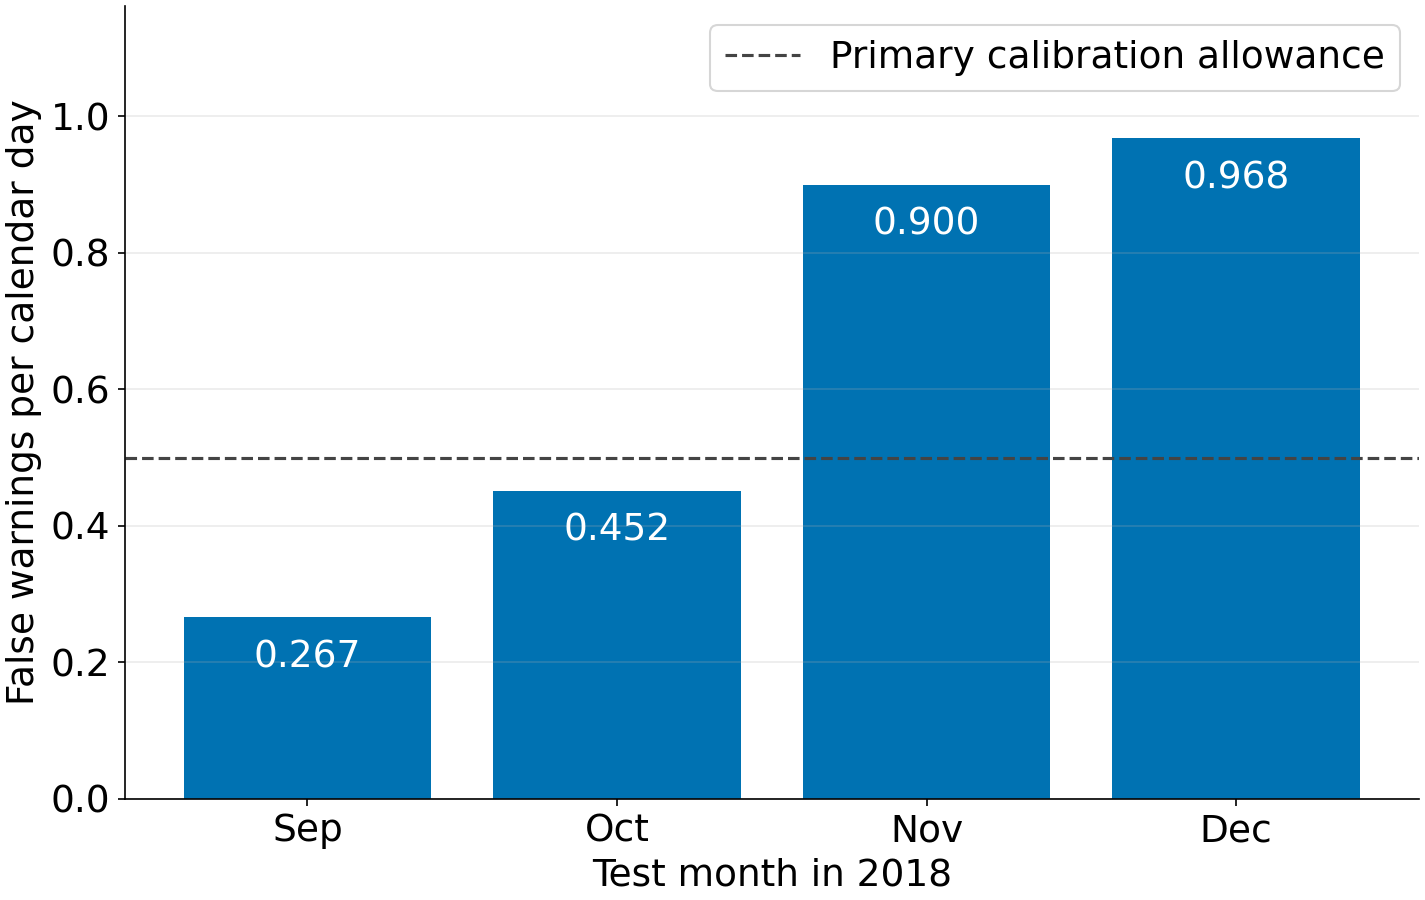
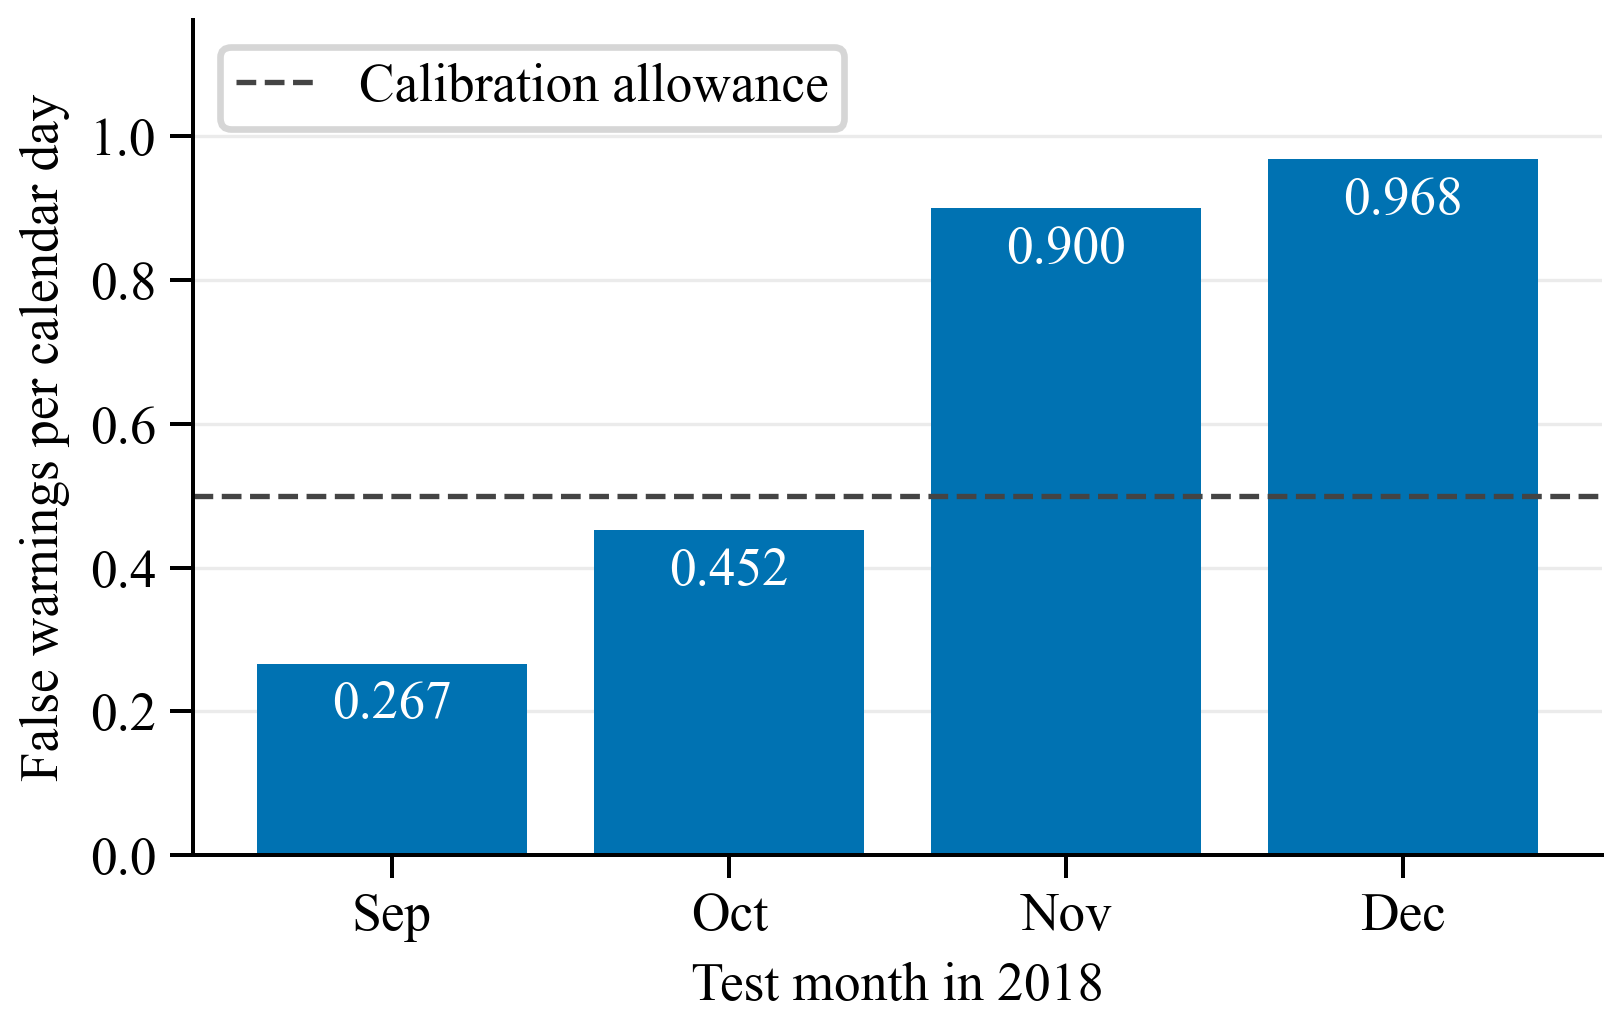
Match PIERE figure typography at final publication size

Changed region(s): [[0.0, 0.0311, 0.9881, 0.9956], [0.7102, 0.0311, 0.9881, 0.0933], [0.5867, 0.0311, 0.6793, 0.0933]]

diff --git a/reproduce.py b/reproduce.py
@@ -182,25 +182,68 @@ def plot_results(metrics: pd.DataFrame, monthly: pd.DataFrame, output: Path):
     import matplotlib
     matplotlib.use('Agg')
     import matplotlib.pyplot as plt
-    plt.rcParams.update({'font.size': 18, 'axes.spines.top': False, 'axes.spines.right': False, 'figure.dpi': 150})
+    from matplotlib import font_manager
+    import warnings
+
+    # Match the article's 4,866-twip image width so 8 pt remains 8 pt in print.
+    font_path = Path('C:/Windows/Fonts/times.ttf')
+    if font_path.is_file():
+        font_manager.fontManager.addfont(str(font_path))
+    try:
+        resolved_font = font_manager.findfont(
+            font_manager.FontProperties(family='Times New Roman'),
+            fallback_to_default=False,
+        )
+        font_family = font_manager.FontProperties(fname=resolved_font).get_name()
+    except ValueError:
+        font_family = 'DejaVu Serif'
+        warnings.warn(
+            'Times New Roman is unavailable; figures use DejaVu Serif. '
+            'Install Times New Roman to regenerate manuscript-compliant figures.',
+            RuntimeWarning,
+            stacklevel=2,
+        )
+    typography = {
+        'font.family': font_family, 'font.size': 8,
+        'axes.labelsize': 8, 'axes.titlesize': 8,
+        'xtick.labelsize': 8, 'ytick.labelsize': 8,
+        'legend.fontsize': 8, 'legend.title_fontsize': 8,
+        'figure.titlesize': 8, 'figure.labelsize': 8,
+        'axes.spines.top': False, 'axes.spines.right': False,
+        'axes.linewidth': .6, 'axes.labelpad': 3, 'axes.axisbelow': True,
+        'xtick.major.width': .6, 'ytick.major.width': .6,
+        'xtick.major.pad': 2, 'ytick.major.pad': 2,
+        'figure.dpi': 480, 'savefig.dpi': 480,
+    }
+    paper_width = 4866 / 1440
     styles = {'Persistence': ('#777777', 's'), 'Logistic': ('#0072B2', '^'), 'CB classifier': ('#D55E00', 'o'), 'CB regressor': ('#009E73', 'D')}
-    for protocol in ('legacy', 'origin_safe'):
-        fig, ax = plt.subplots(figsize=(8.2, 6), constrained_layout=True)
-        for method, (color, marker) in styles.items():
-            subset = metrics[(metrics.protocol == protocol) & (metrics.horizon_hours == 1) & (metrics.method == method)].sort_values('budget')
-            ax.plot(subset.false_per_day, subset.recall * 100, label=method, color=color, marker=marker, lw=2)
-        ax.axvline(.5, color='#444444', linestyle=':', label='Primary calibration allowance')
-        ax.set(xlabel='False warnings per calendar day', ylabel='Peak-record recall (%)', ylim=(0, None))
-        ax.grid(axis='y', alpha=.25); ax.legend(fontsize=13)
-        fig.savefig(output / f'operating_points_{protocol}.png'); plt.close(fig)
-        subset = monthly[(monthly.protocol == protocol) & (monthly.method == 'CB classifier') & (monthly.horizon_hours == 1) & (monthly.budget == .5)]
-        fig, ax = plt.subplots(figsize=(9.5, 6), constrained_layout=True)
-        bars = ax.bar(['Sep', 'Oct', 'Nov', 'Dec'], subset.false_per_day, color='#0072B2')
-        ax.bar_label(bars, fmt='%.3f', padding=-28, color='white')
-        ax.axhline(.5, color='#444444', linestyle='--', label='Primary calibration allowance')
-        ax.set(xlabel='Test month in 2018', ylabel='False warnings per calendar day', ylim=(0, max(1.15, subset.false_per_day.max() * 1.2)))
-        ax.grid(axis='y', alpha=.25); ax.legend()
-        fig.savefig(output / f'monthly_false_warnings_{protocol}.png'); plt.close(fig)
+    with plt.rc_context(typography):
+        for protocol in ('legacy', 'origin_safe'):
+            fig, ax = plt.subplots(figsize=(paper_width, 2.5), constrained_layout=True)
+            for method, (color, marker) in styles.items():
+                subset = metrics[(metrics.protocol == protocol) & (metrics.horizon_hours == 1) & (metrics.method == method)].sort_values('budget')
+                ax.plot(subset.false_per_day, subset.recall * 100, label=method,
+                        color=color, marker=marker, markersize=3.2, linewidth=.9)
+            ax.axvline(.5, color='#444444', linestyle=':', linewidth=.8,
+                       label='Calibration allowance')
+            ax.set(xlabel='False warnings per calendar day', ylabel='Peak-record recall (%)', ylim=(0, None))
+            ax.grid(axis='y', alpha=.25, linewidth=.5)
+            ax.legend(loc='upper left', fontsize=8, borderpad=.3,
+                      labelspacing=.25, handlelength=1.5, framealpha=.95)
+            fig.savefig(output / f'operating_points_{protocol}.png')
+            plt.close(fig)
+
+            subset = monthly[(monthly.protocol == protocol) & (monthly.method == 'CB classifier') & (monthly.horizon_hours == 1) & (monthly.budget == .5)].sort_values('month')
+            fig, ax = plt.subplots(figsize=(paper_width, 2.15), constrained_layout=True)
+            bars = ax.bar(['Sep', 'Oct', 'Nov', 'Dec'], subset.false_per_day, color='#0072B2')
+            ax.bar_label(bars, fmt='%.3f', padding=-10, color='white', fontsize=8)
+            ax.axhline(.5, color='#444444', linestyle='--', linewidth=.8,
+                       label='Calibration allowance')
+            ax.set(xlabel='Test month in 2018', ylabel='False warnings per calendar day', ylim=(0, max(1.15, subset.false_per_day.max() * 1.2)))
+            ax.grid(axis='y', alpha=.25, linewidth=.5)
+            ax.legend(loc='upper left', fontsize=8, borderpad=.3, handlelength=1.5)
+            fig.savefig(output / f'monthly_false_warnings_{protocol}.png')
+            plt.close(fig)
 
 
 def run(data_path: Path, output: Path, horizons=(4, 8, 16), n_boot=2000):

diff --git a/README.md b/README.md
@@ -26,6 +26,8 @@ The script evaluates all six methods at one-, two- and four-hour leads in both p
 
 Direct package versions are pinned. The actual scientific-package versions and operating system for the supplied run are recorded in [results/environment.json](results/environment.json). This is not a complete lockfile of transitive dependencies.
 
+The publication PNG figures use **Times New Roman at 8 pt**, at a final width of 3.3791667 inches and 480 dpi. Install an appropriately licensed copy of Times New Roman for identical figure typography. If it is unavailable, the plotter emits a warning and uses DejaVu Serif; that fallback preserves the plotted data but does not meet the manuscript's font specification. The supplied publication figures were generated with Times New Roman. The figure-formatting revision does not change the numerical result files. The notebook also contains separate, larger exploratory plots.
+
 ## What is evaluated
 
 The target is one future 15-minute consumption record, at row offsets 4, 8 or 16. A peak exceeds the training-period 90th percentile, **85.82 kWh**. It is a statistical label, not a plant's contractual or equipment limit.
